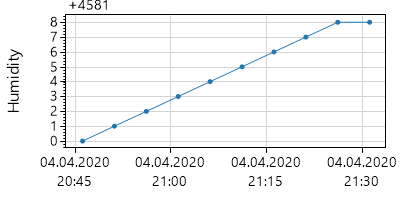
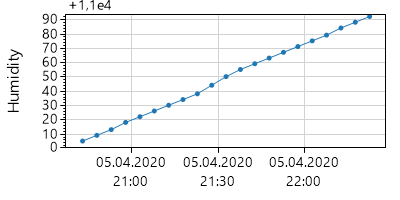
implemented updating pictures on runtime

diff --git a/sampleserver/Views/MainWindow.xaml b/sampleserver/Views/MainWindow.xaml
@@ -7,18 +7,14 @@
         mc:Ignorable="d" d:DesignWidth="800" d:DesignHeight="450"
         x:Class="sampleserver.Views.MainWindow"
          Icon="/Assets/sample.ico"
+                Name="sampleWindow"
         Title="SAMPLE server client"
               WindowState="Maximized">
-        <Window.Resources>
-          <imaging:Bitmap x:Key="humidity">
-            <x:Arguments>
-              <x:String>Humidity.png</x:String>
-            </x:Arguments>
-          </imaging:Bitmap>
-        </Window.Resources>
+          
   <Design.DataContext>
     <vm:MainWindowViewModel/>
   </Design.DataContext>
+          
   <Grid ShowGridLines="True">
     <Grid.ColumnDefinitions>
       <ColumnDefinition Width="*"></ColumnDefinition>
@@ -32,15 +28,14 @@
     
     <ScrollViewer Grid.Column="0" Grid.Row="0">
     <StackPanel Background="AliceBlue" Grid.Column="0" Grid.Row="0">
-      <Image Source="/Assets/Humidity.png" >
-              </Image>
+      <Image Name="humidity" Source="/Assets/Humidity.png" >  </Image>
       <TextBlock HorizontalAlignment="Center"> humidity </TextBlock>
-      <Image Source="/Assets/Pressure.png" > </Image>
+      <Image Name="pressure" Source="/Assets/Pressure.png" > </Image>
       <TextBlock HorizontalAlignment="Center" > pressure </TextBlock>
-      <Image Source="/Assets/quickstart.png"   > </Image>
+      <Image Name="light_intensity" Source="/Assets/Light_intensity.png"   > </Image>
       <TextBlock HorizontalAlignment="Center"> light intensity </TextBlock>
-      <Image Source="/Assets/Light.png"   > </Image>
-      <TextBlock HorizontalAlignment="Center"> lights </TextBlock>
+      <Image Name="no_of_lamps" Source="/Assets/Light.png"   > </Image>
+      <TextBlock HorizontalAlignment="Center"> no of lamps </TextBlock>
     </StackPanel>
     </ScrollViewer>
     
@@ -48,12 +43,12 @@
       <StackPanel Background="PaleGoldenrod" Grid.Column="1" Grid.Row="0" Spacing="1">
       <TextBlock Text="Control room console" HorizontalAlignment="Center"> </TextBlock>
       <TextBlock Text="SAMPLE" FontSize="16" HorizontalAlignment="Center" ></TextBlock>
-      <Image Source="/Assets/Temperature.png"  > </Image>
+      <Image Name="temperature" Source="/Assets/Temperature.png"  > </Image>
       <TextBlock HorizontalAlignment="Center"> temperature </TextBlock>
-      <Image Source="/Assets/quickstart.png"  > </Image>
-      <TextBlock HorizontalAlignment="Center" > airfan </TextBlock>
-      <Image Source="/Assets/quickstart.png"   > </Image>
-      <TextBlock HorizontalAlignment="Center"> heater </TextBlock>
+      <Image Name="no_of_airfans" Source="/Assets/quickstart.png"  > </Image>
+      <TextBlock HorizontalAlignment="Center" > no of airfans </TextBlock>
+      <Image Name="no_of_heaters" Source="/Assets/quickstart.png"   > </Image>
+      <TextBlock HorizontalAlignment="Center"> no of heaters </TextBlock>
     </StackPanel>
       
     </ScrollViewer>
@@ -63,7 +58,14 @@
     <StackPanel Background="PaleGreen" Grid.Column="2" Grid.Row="0">
       <Image HorizontalAlignment="Center" Margin="10,10,10,10" Source="/Assets/downloaded_photo.png"></Image>
       <TextBlock HorizontalAlignment="Center" > Last downloaded photo</TextBlock>
-      <Button Content="Download photo" Width="150" HorizontalAlignment="Center"> </Button>
+      <Button
+         Width="150"
+        Command="{Binding ChangePictureFromModel}">change humidity picture </Button>
+      <Button
+        Command="{Binding ChangePictureCommand}"     
+        CommandParameter="{Binding ElementName=sampleWindow}"
+        Content="change humidity pic" Width="150" HorizontalAlignment="Center">
+      </Button>
       <TextBlock HorizontalAlignment="Center" Text="{Binding Greeting}" ></TextBlock>
       
 
@@ -72,6 +74,7 @@
     <StackPanel Background="Bisque" Grid.Row="1" Grid.ColumnSpan="3" >
       <TextBlock HorizontalAlignment="Left" VerticalAlignment="Top">Enter command here</TextBlock>
       <TextBox x:Name="telemetryCommandTextBox" Height="30" HorizontalAlignment="Stretch"> </TextBox>
+     
       <Button VerticalAlignment="Bottom" HorizontalAlignment="Right" Command="{Binding SendTelemetryCommand}" 
               CommandParameter="{Binding Text, ElementName=telemetryCommandTextBox}"> Send</Button>
     </StackPanel>

diff --git a/sampleserver/ViewModels/MainWindowViewModel.cs b/sampleserver/ViewModels/MainWindowViewModel.cs
@@ -1,6 +1,8 @@
-using Avalonia.Threading;
+using Avalonia.Media.Imaging;
+using Avalonia.Threading;
 using ReactiveUI;
 using sampleserver.Models;
+using sampleserver.Views;
 using System;
 using System.Collections.Generic;
 using System.IO;
@@ -14,95 +16,45 @@ namespace sampleserver.ViewModels
 {
     public class MainWindowViewModel : ViewModelBase
     {
-        private DispatcherTimer timer;
-        private string greeting = "";
-        private string RequestUri = "192.168.0.18:2137";
         private TelemetryInformationContainer telemetryInformationContainer;
-        private string humidityPicPath;
-        public string HumidityPicPath
+        private TelecommandData telecommandData;
+        
+        private async Task ChangeImage(IChangeImages window)
         {
-            get { return humidityPicPath; }
-            set { humidityPicPath = value; }
+            while (true)
+            {
+                await Task.Run(async () =>
+                {
+                    telemetryInformationContainer.UpdateItems();
+                    await Task.Delay(4000);
+                });
+                if (window != null)
+                {
+                    for (int i = 0; i < 7; i++)
+                        window.ChangePic(i);
+                }
+
+            }
+            
         }
 
-
-        //for debugging purposes
-        int i = 0;
         public MainWindowViewModel()
         {
-            humidityPicPath=@"C:\Users\lewon\source\repos\sample-client\sampleserver\Assets\Humidity.png";
+            
+            telecommandData = new TelecommandData();
+            ChangePictureCommand = ReactiveCommand.CreateFromTask<IChangeImages>(ChangeImage);
             SendTelemetryCommand = ReactiveCommand.CreateFromTask<string>(SendTelemetry);
-             GetDataFromIndex = ReactiveCommand.Create(() =>
-            {
-                
-                Greeting = String.Empty;
-                var builder = new UriBuilder(RequestUri);
-                var uri = builder.Uri;
-                WebClient client = new WebClient();
-                var data = client.OpenRead(uri);
-                using (StreamReader reader = new StreamReader(data))
-                {
-                    Greeting = reader.ReadToEnd();
-                }
-            });
-
             telemetryInformationContainer = new TelemetryInformationContainer();
-            timer = new DispatcherTimer();
-            // timer.Interval = new TimeSpan(0, 5, 0); //real value
-            timer.Interval = new TimeSpan(0, 0, 1); //value for tests
-            timer.Tick += Timer_Tick;
-            timer.Start();
-        }
-
-        private void Timer_Tick(object sender, EventArgs e)
-        {
-            telemetryInformationContainer.UpdateItems();
-            i++;
-            if (i == 10)
-            {
-                timer.Stop();
-                Console.WriteLine("finished");
-            }
-            //TODO: update the model and the view every 5 minutes
         }
 
         private async Task SendTelemetry(string command)
         {
-            //var values = new Dictionary<string, string>
-            //{
-            //    {"telecommand", command }
-            //};
-            //var content = new FormUrlEncodedContent(values);
-            //HttpResponseMessage response = null;
-            //try
-            //{
-            //    response = await client.PostAsync(new UriBuilder(RequestUri + "/telecommands").Uri, content);
-            //}
-            ////catch (ArgumentNullException ex)
-            ////{
-            ////    //TODO: displaying errors
-                
-            ////}
-            //catch(HttpRequestException hex)
-            //{
-            //    //TODO: displaying errors
-            //}
-            //if (response!=null)
-            //{
-            //    var responseString = await response.Content.ReadAsStringAsync();
-            //    Greeting = responseString;
-            //}
-            
+            await telecommandData.SendTelecommand(command);
         }
 
-        public string Greeting
-        {
-            get { return greeting; }
-            set { greeting = this.RaiseAndSetIfChanged(ref greeting, value); }
-        }
+        public ReactiveCommand<IChangeImages, Unit> ChangePictureCommand { get; }
         public ReactiveCommand<string, Unit> SendTelemetryCommand { get; }
-        public ReactiveCommand<Unit, Unit> GetDataFromIndex { get; } 
-        public ReactiveCommand<Unit, Unit> GetDataFromXYZ { get; }
     }
 }
+
 

diff --git a/sampleserver/Views/MainWindow.xaml.cs b/sampleserver/Views/MainWindow.xaml.cs
@@ -1,11 +1,25 @@
 using Avalonia;
 using Avalonia.Controls;
+using Avalonia.Interactivity;
 using Avalonia.Markup.Xaml;
+using Avalonia.Media.Imaging;
 
 namespace sampleserver.Views
 {
-    public class MainWindow : Window
+    public enum Images
     {
+        Humidity,
+        Pressure,
+        Light_intensity,
+        No_of_lamps,
+        Temperature,
+        No_of_airfans,
+        No_of_heaters
+    }
+    public class MainWindow : Window, IChangeImages
+    {
+        private const string FileName = @"C:\Users\lewon\source\repos\sample-client\sampleserver\Assets\";
+        private Image[] images;
         public MainWindow()
         {
             InitializeComponent();
@@ -14,10 +28,29 @@ namespace sampleserver.Views
 #endif
             
         }
-
+    
+        public void ChangePic(int number)
+        {
+            var filename = FileName + (Images)(number) + ".png";
+            Bitmap bitmap = new Bitmap(filename);
+            images[number].Source = bitmap;
+        }
         private void InitializeComponent()
         {
             AvaloniaXamlLoader.Load(this);
+            images = new Image[7];
+            images[0] = this.FindControl<Image>("humidity");
+            images[1] = this.FindControl<Image>("pressure");
+            images[2] = this.FindControl<Image>("light_intensity");
+            images[3] = this.FindControl<Image>("no_of_lamps");
+            images[4] = this.FindControl<Image>("temperature");
+            images[5] = this.FindControl<Image>("no_of_airfans");
+            images[6] = this.FindControl<Image>("no_of_heaters");
         }
+    }
+
+    public interface IChangeImages
+    {
+        void ChangePic(int number);
     }
 }

diff --git a/sampleserver/Models/TelemetryInformationContainer.cs b/sampleserver/Models/TelemetryInformationContainer.cs
@@ -13,9 +13,11 @@ namespace sampleserver.Models
         public ITelemetryParser DataParser { get; }
         public List<DateTime> LastTimestamps { get; private set; }
         private Dictionary<string, IDataItem> Measures;
+        private readonly int countOfRecordsToStore;
 
         public TelemetryInformationContainer()
         {
+            countOfRecordsToStore = 20;
             DataParser = new TelemetryParser(new DataFetcher());
             creator = new PlotCreator();
             Measures = new Dictionary<string, IDataItem>();
@@ -30,12 +32,16 @@ namespace sampleserver.Models
         }
         public void UpdateItems()
         {
+            if (LastTimestamps.Count>countOfRecordsToStore)
+                FlushOldRecords();
+            
             DataParser.UpdateData();
             
             var timestampToAdd = DataParser.GetTimestamp();
             var dataToProcess = DataParser.FetchNumericData();
             if (timestampToAdd!=null || dataToProcess.Count!=0)
             {
+                
                 LastTimestamps.Add((DateTime)timestampToAdd);
                 foreach (var item in dataToProcess)
                 {
@@ -55,6 +61,17 @@ namespace sampleserver.Models
             }
             
         }
+
+        private void FlushOldRecords()
+        {
+            LastTimestamps.RemoveAt(0);
+            foreach (var measure in Measures)
+            {
+                var key = measure.Key;
+                Measures[key].LastMeasures.RemoveAt(0);
+            }
+        }
+
         private void CreatePlots()
         {
             foreach (var measure in Measures)

diff --git a/sampleserver/Infrastructure/TelecommandSender.cs b/sampleserver/Infrastructure/TelecommandSender.cs
@@ -8,7 +8,7 @@ namespace sampleserver.Infrastructure
 {
     public class TelecommandSender
     {
-        private string RequestUri = "192.168.0.19:2137";
+        private string RequestUri = "192.168.0.18:2137";
         private static readonly HttpClient client = new HttpClient();
         public async Task SendTelecommandAsync(string command)
         {
@@ -34,6 +34,7 @@ namespace sampleserver.Infrastructure
             if (response != null)
             {
                 var responseString = await response.Content.ReadAsStringAsync();
+                Console.WriteLine(responseString);
             }
 
         }

diff --git a/sampleserver/Infrastructure/DataFetcher.cs b/sampleserver/Infrastructure/DataFetcher.cs
@@ -10,7 +10,7 @@ namespace sampleserver.Infrastructure
     public class DataFetcher :IDataFetcher
     {
         HtmlWeb htmlWeb;
-        private readonly string RequestUri = "192.168.0.18:2137/telemetry";
+        private readonly string RequestUri = "192.168.0.19:2137/telemetry";
         public DataFetcher()
         {
             htmlWeb = new HtmlWeb();
@@ -38,9 +38,6 @@ namespace sampleserver.Infrastructure
             }
             return textToParse;
         }
-       
-        
-        
     }
 
     public interface IDataFetcher

diff --git a/sampleserver/Models/TelecommandData.cs b/sampleserver/Models/TelecommandData.cs
@@ -1,0 +1,21 @@
+using sampleserver.Infrastructure;
+using System;
+using System.Collections.Generic;
+using System.Text;
+using System.Threading.Tasks;
+
+namespace sampleserver.Models
+{
+    public class TelecommandData
+    {
+        public TelecommandSender sender;
+        public TelecommandData()
+        {
+            sender = new TelecommandSender();
+        }
+        public async Task SendTelecommand(string command)
+        {
+            await sender.SendTelecommandAsync(command);
+        }
+    }
+}
